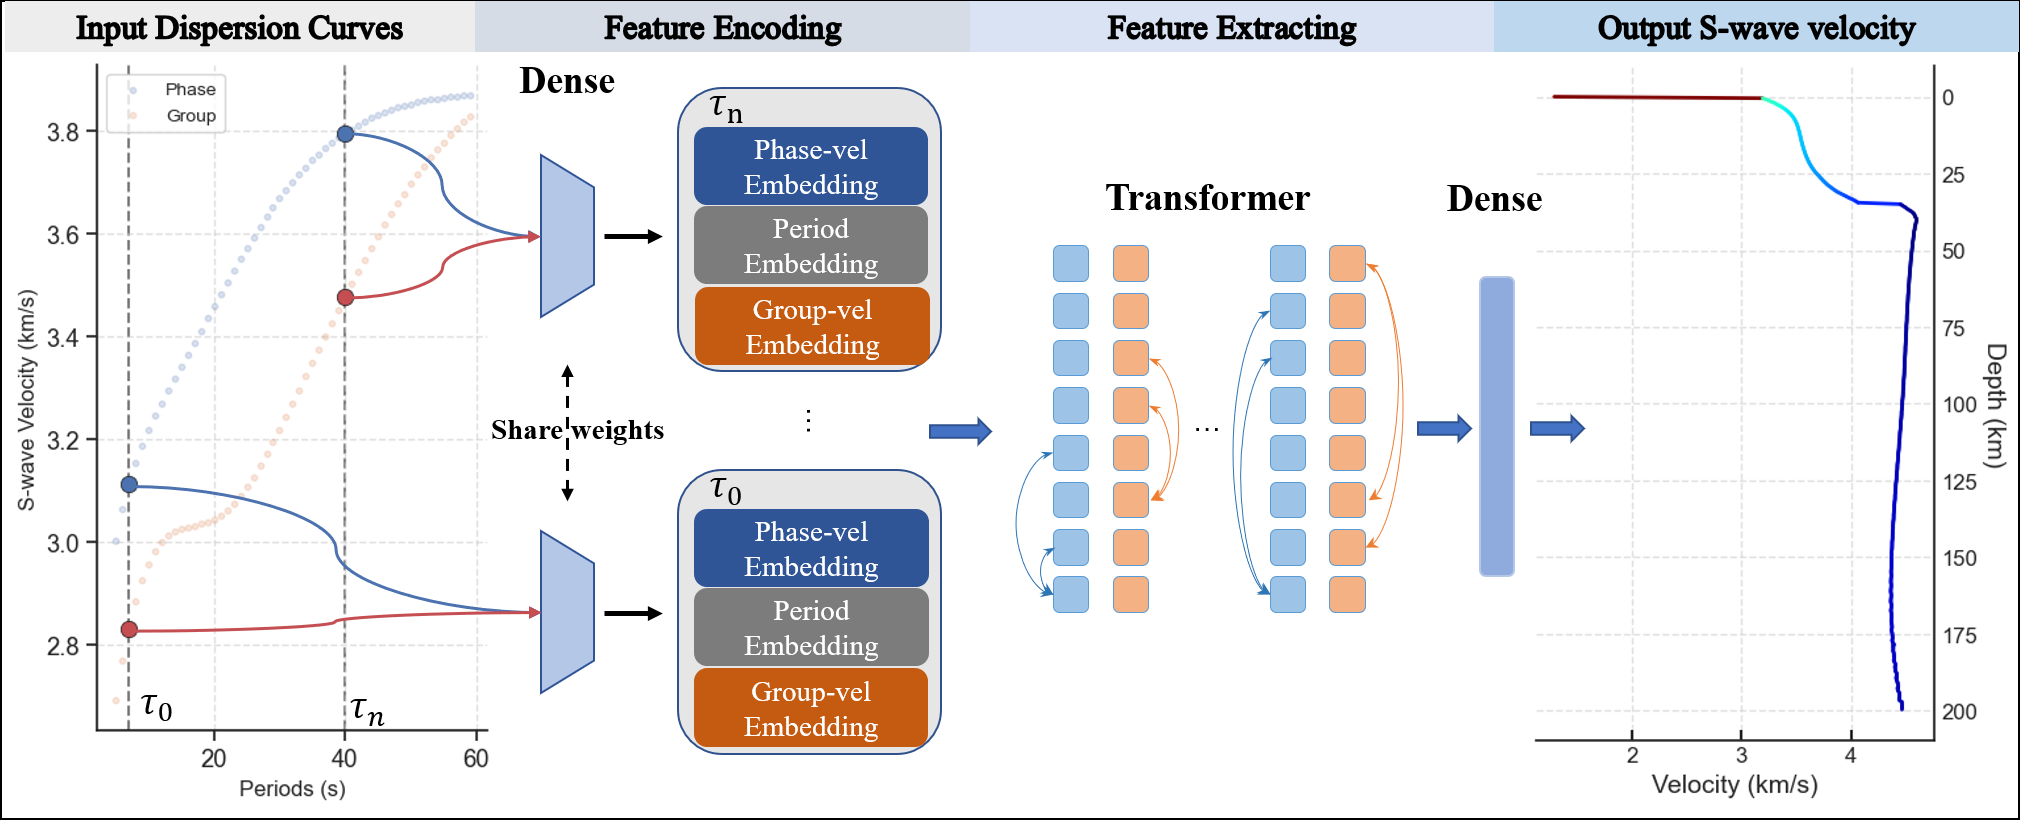
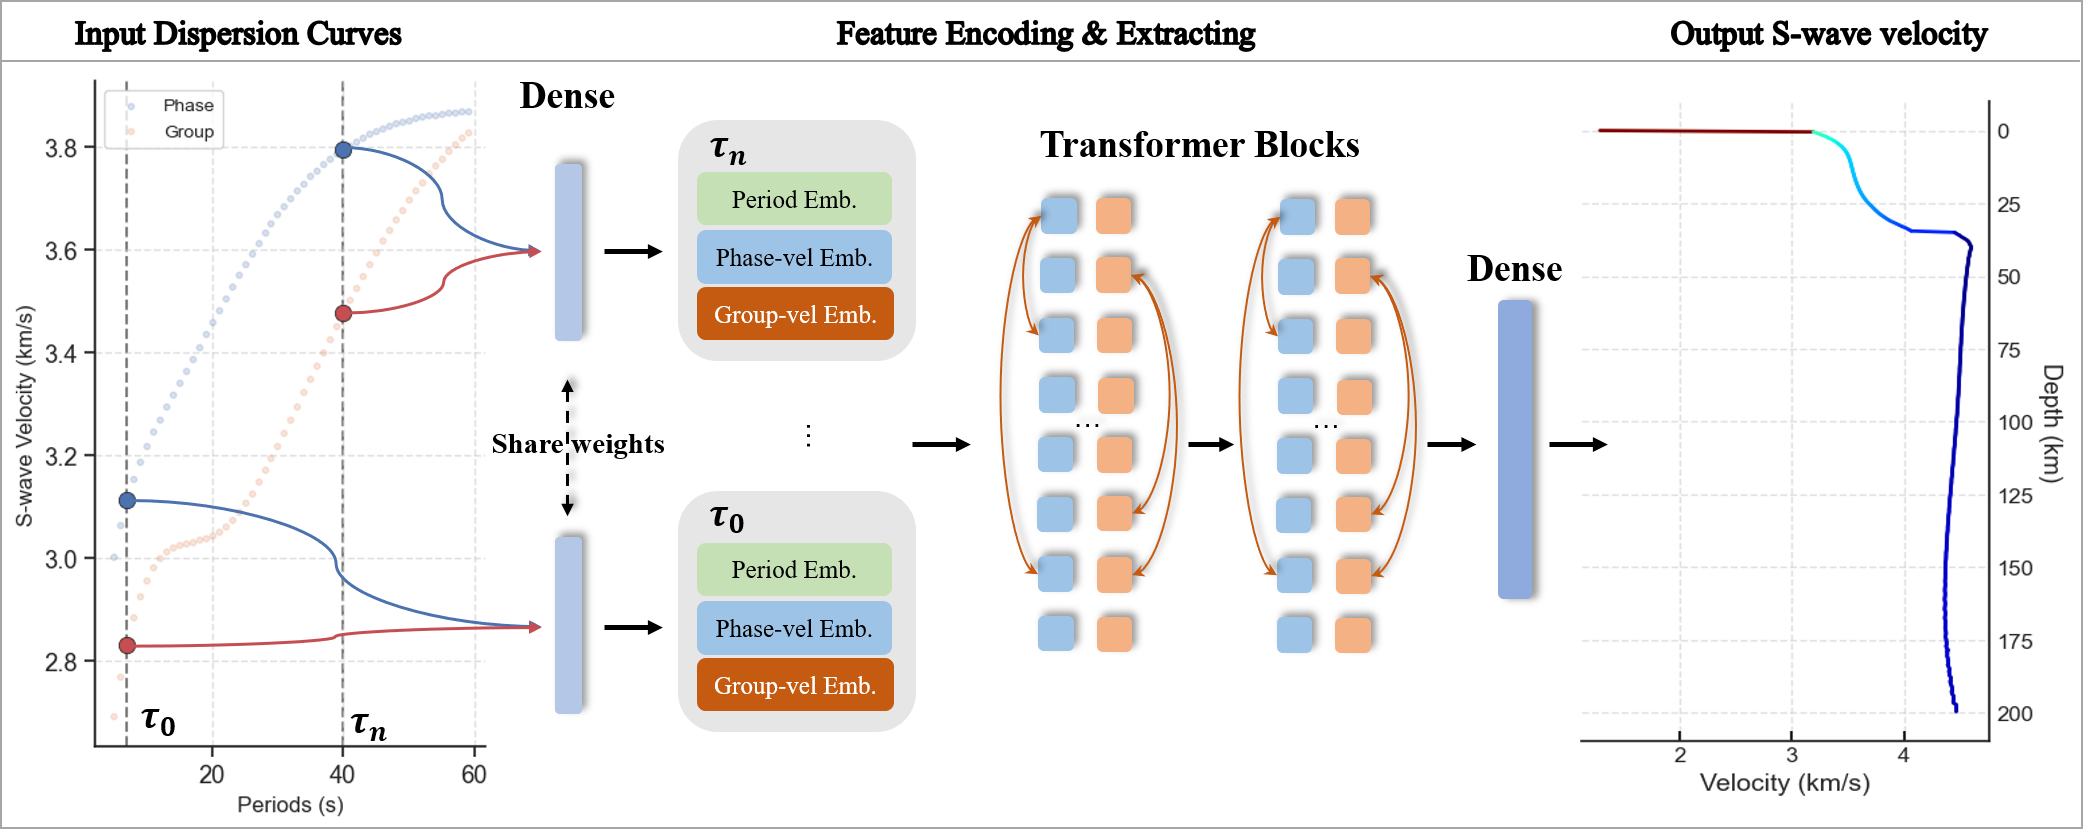
update: Readme

diff --git a/README.md b/README.md
@@ -13,7 +13,7 @@
   <img src="https://img.shields.io/badge/lauguage-python-%233572A5"/>
   <img src="https://img.shields.io/badge/lauguage-jupyter-%23F37626"/>
 </div>
-<h2 align="center">DispFormer: Pretrained Transformer for Flexible Dispersion Curve Inversion from Global Synthesis to Local Applications</h2>
+<h2 align="center">DispFormer: A Pretrained Transformer Incorporating Physical Constraints for Dispersion Curve Inversion</h2>
 
 ---
 
@@ -31,10 +31,14 @@
 
 ### 📚 Introduction
 
-&emsp;&emsp;DispFormer is a transformer-based neural network for inverting S-wave velocity ($v_s$) profiles from Rayleigh-wave phase and/or group dispersion curves. It processes data independently at each period, allowing it to handle datasets with varying lengths and missing data without needing alignment or network modifications. The model works well in zero-shot and few-shot learning scenarios, making it highly efficient and accurate for real-world applications, even when data is sparse or noisy.
+&emsp;&emsp;DispFormer is a transformer-based neural network for inverting S-wave velocity ($v_s$) profiles from Rayleigh-wave phase and/or group dispersion curves. It processes data independently at each period, **allowing it to handle datasets with varying lengths and missing data without needing alignment or network modifications**. The model works well in zero-shot and few-shot learning scenarios, making it highly efficient and accurate for real-world applications, even when data is sparse or noisy.
 
 <p align="center">
   <img src="./Figures/Figure2_DispFormer_Network.png" alt="Synthetic-data Overview" style="max-height: 400px; overflow: auto;">
+</p>
+
+<p align="center">
+  <img src="./Figures/FigureS1_Network_Structure.png" alt="Synthetic-data Overview" style="max-height: 400px; overflow: auto;">
 </p>
 
 <p align="center">
